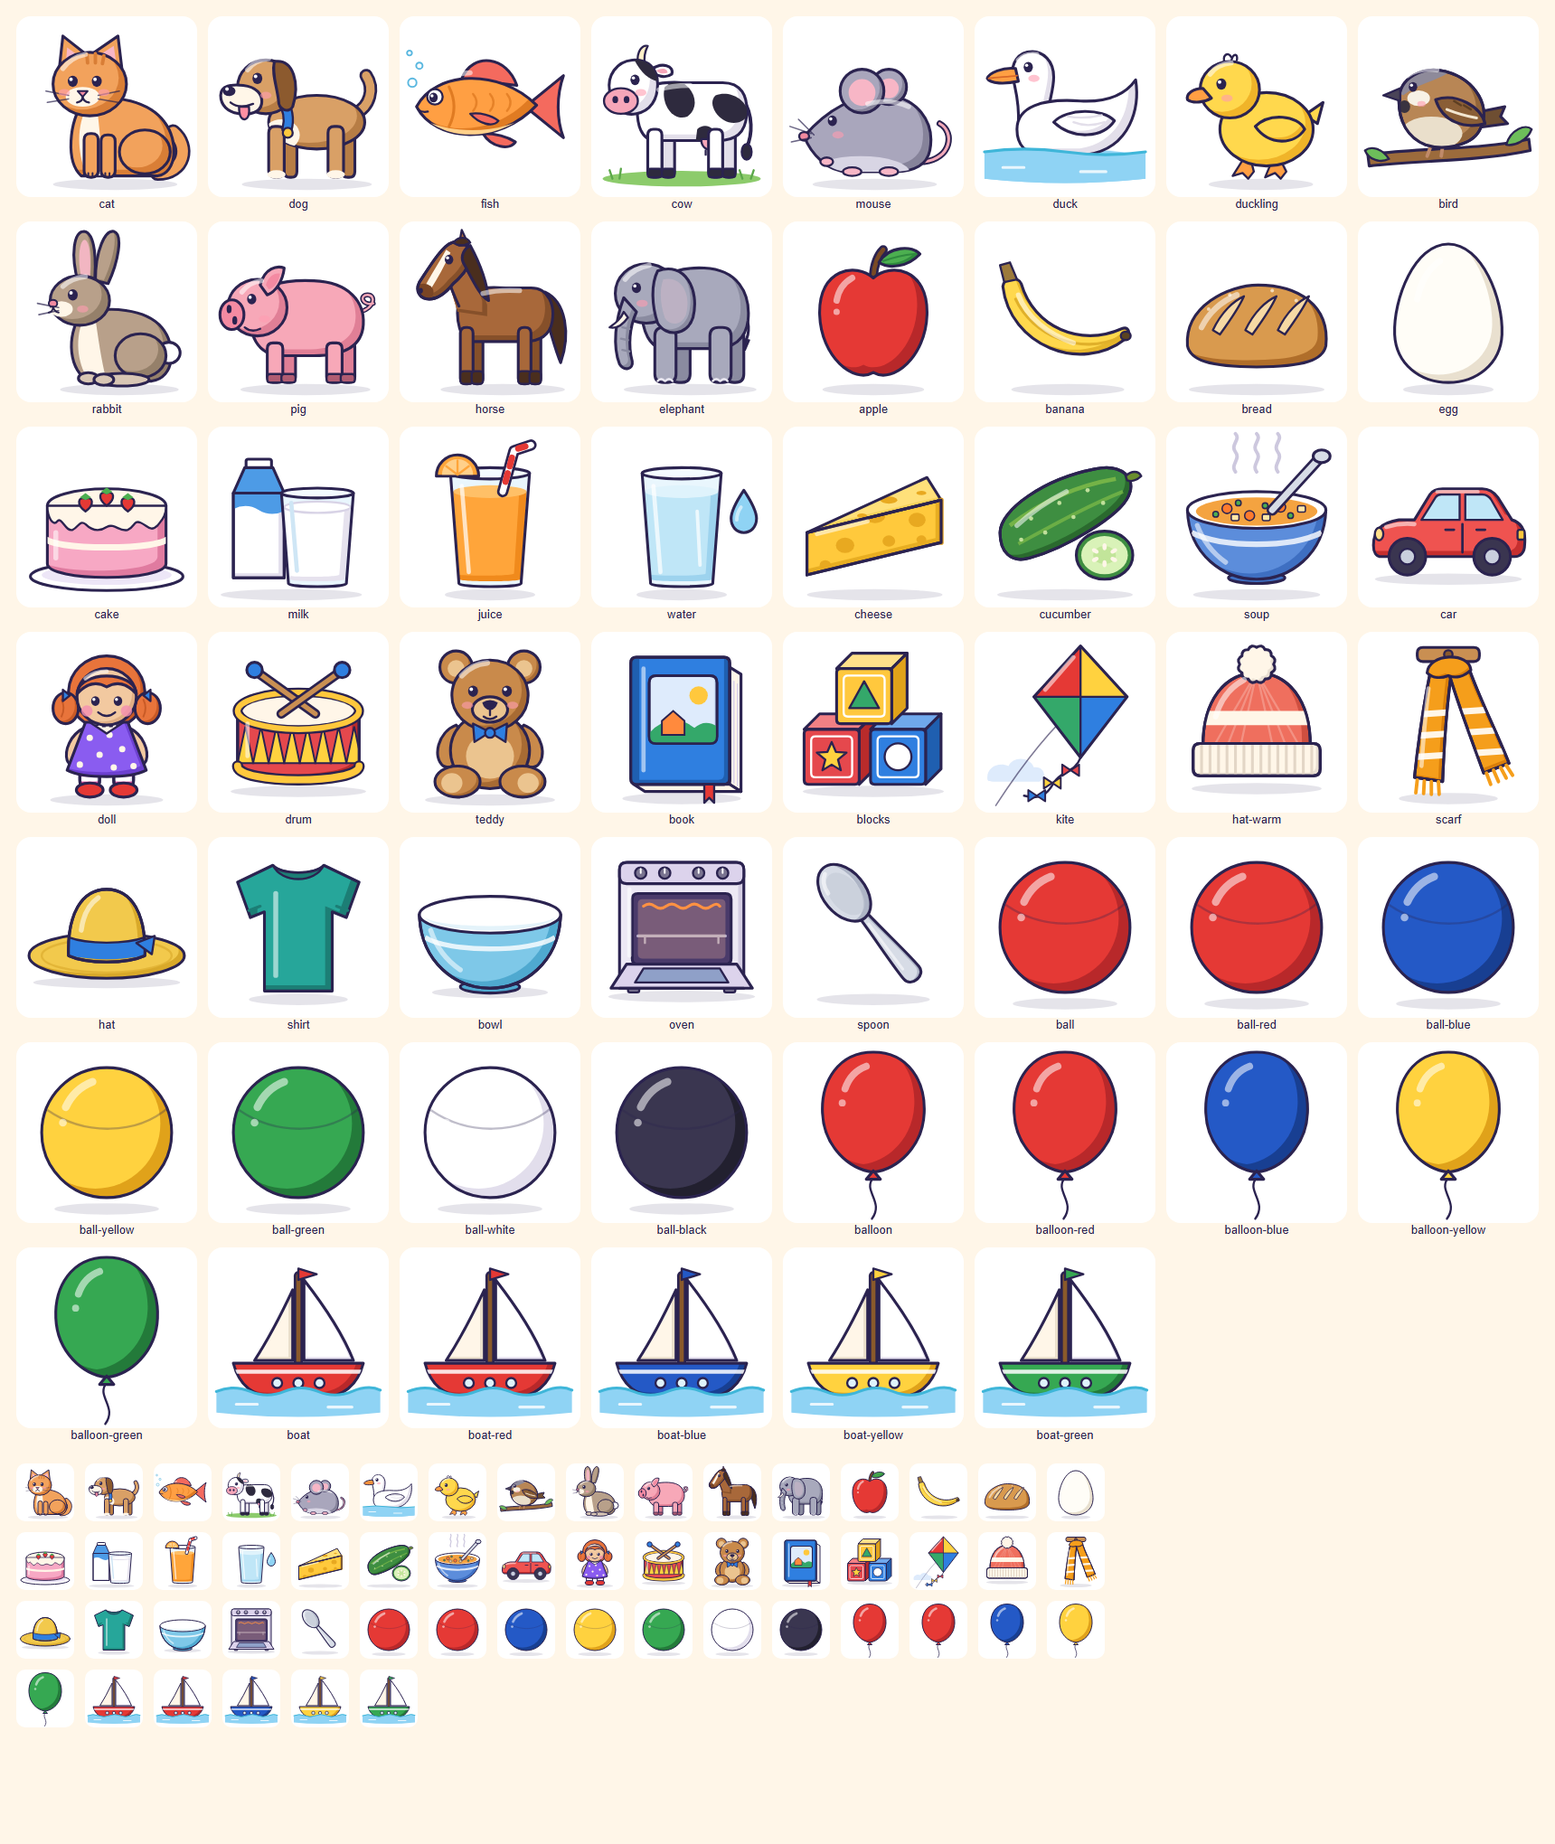
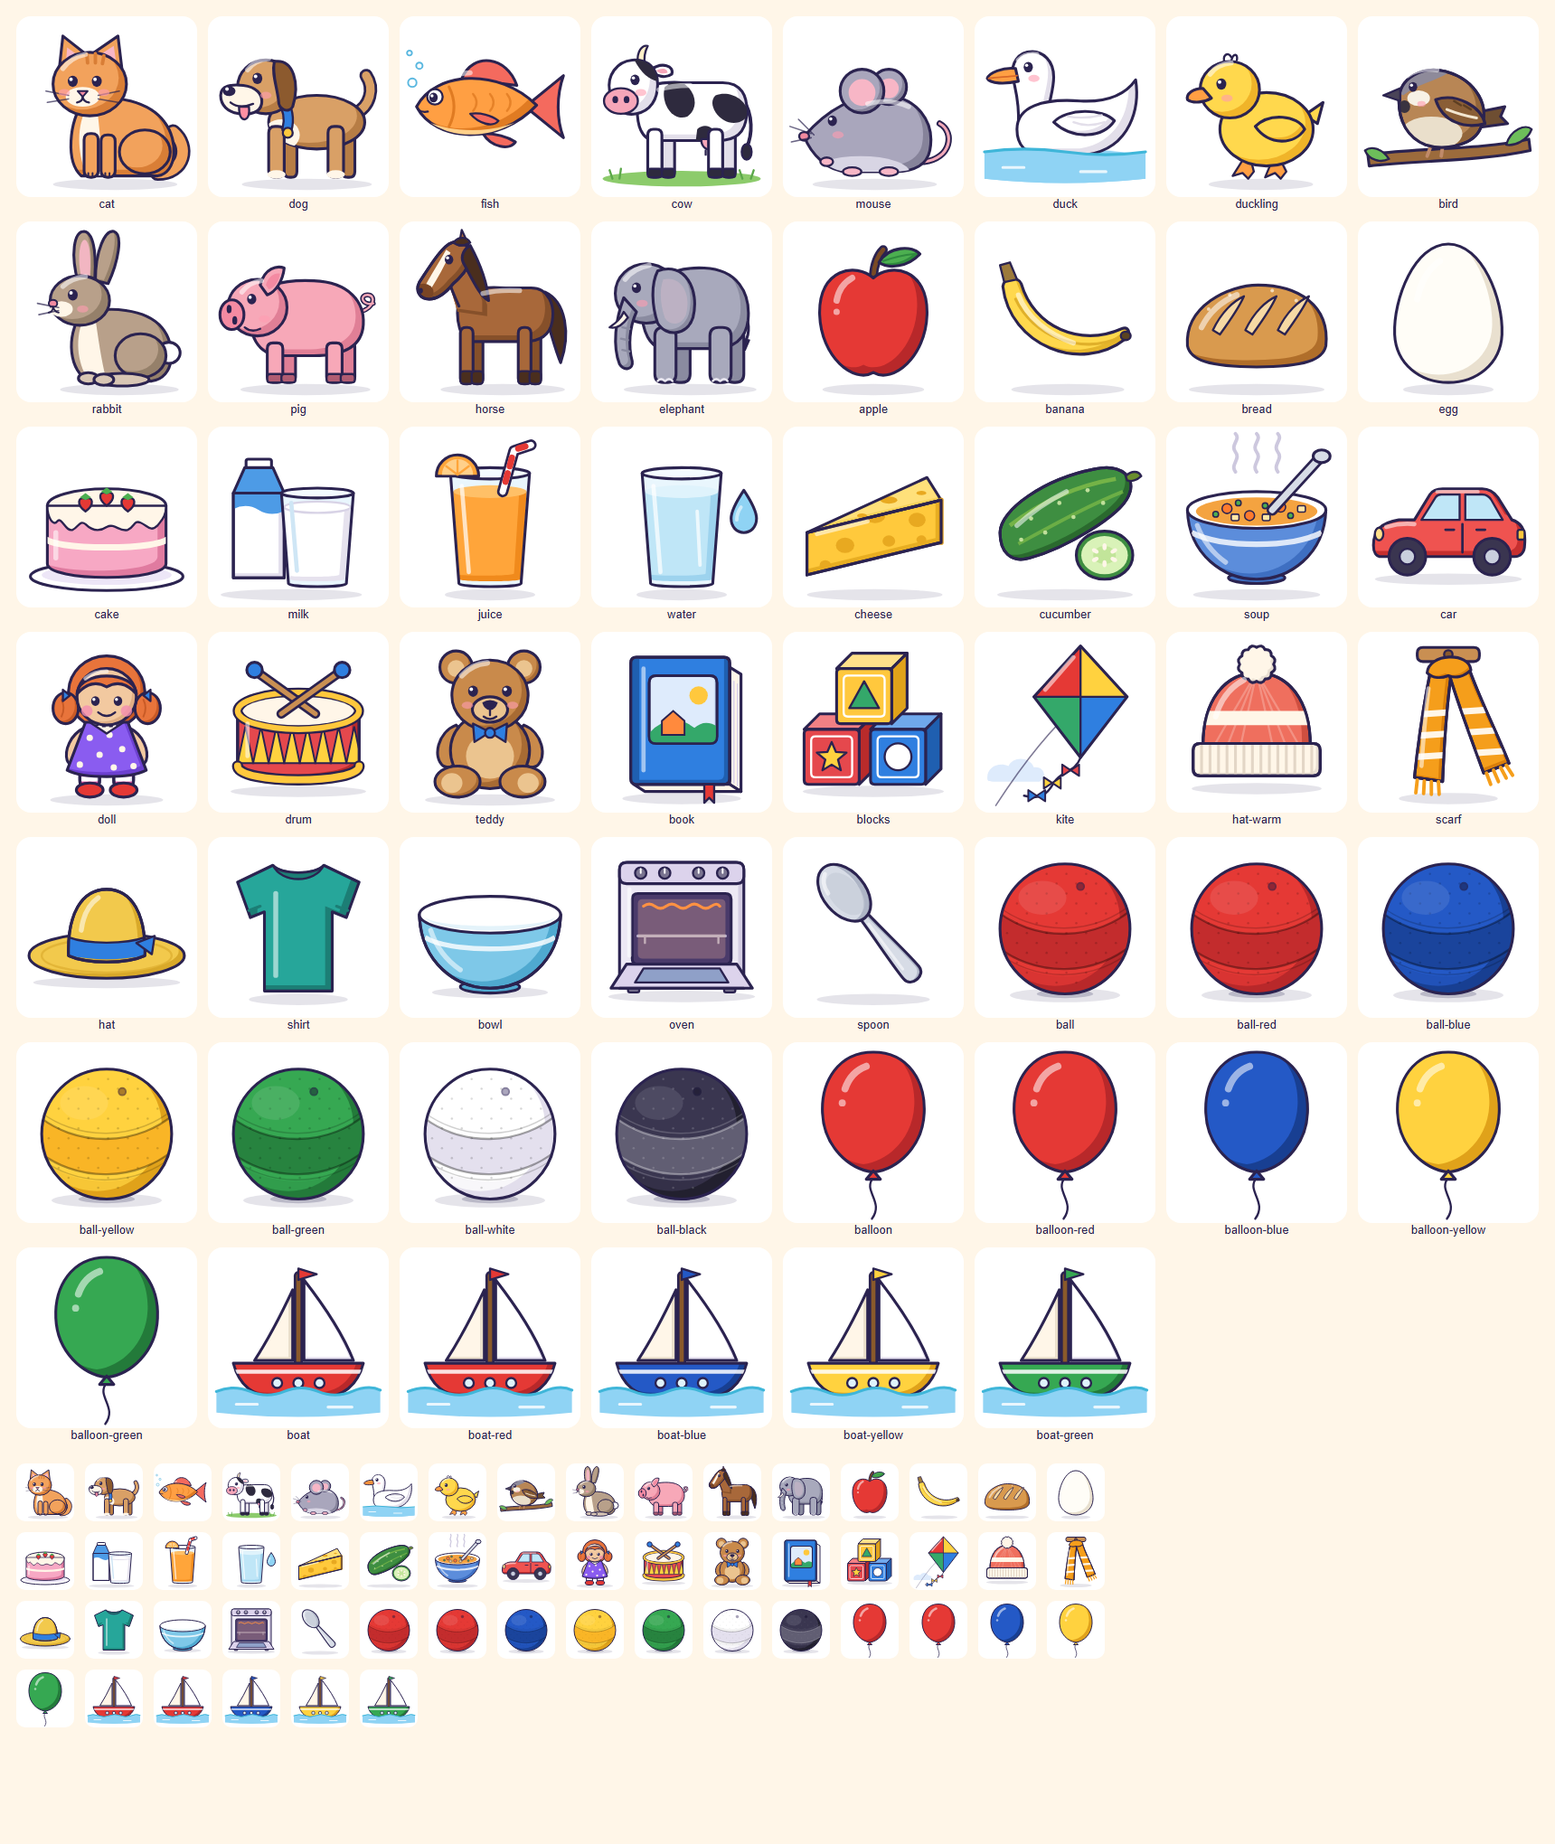
Languages pictures: the ball redrawn as a children's rubber play ball (matte, a two-tone band with seams, pebbles, a valve, on the ground with a contact shadow, round), all six colours, so it never reads as a balloon at 200 or 64 px; ball_vs_balloon.png; pictures.md records the owner's OK of the bat

diff --git a/tools/make_language_pictures.py b/tools/make_language_pictures.py
@@ -44,7 +44,12 @@ References looked at on 2026-11-03 (facts and photographs; the look is ours):
     head, upright ears).
   Elephant: Wikimedia Commons search "african elephant side" (grey, a big ear on the side of the head, the trunk hanging
     to the ground, pillar legs, a thin tail with a tuft, small tusks).
-  Everyday things (apple, ball, balloon, banana, boat, bowl, bread, cake, car, cat, cucumber, dog, doll, egg, fish,
+  Play ball (redrawn 2026-11-03 for the owner: it looked like a balloon without a string): Wikimedia Commons searches
+    "playground ball" and "rubber ball toy" (matte red rubber balls on grass, a pebbled "stipple" finish, a small
+    self-sealing valve) and retailer descriptions of rubber playground balls (laminated rubber cover, stipple finish,
+    self-sealing valve; e.g. https://www.marchants.com/rubber-playground-ball-8-1-2/). Ours: matte, a two-tone band with
+    seams, faint pebbles, a valve, sitting on the ground with a contact shadow, perfectly round.
+  Everyday things (apple, balloon, banana, boat, bowl, bread, cake, car, cat, cucumber, dog, doll, egg, fish,
     glass of juice, milk and water, hats, kite, oven, scarf, shirt, soup, spoon) are drawn from what they look like in
     any Israeli or Russian kitchen, toy box or park; colours checked against the brief of each course.
 """
@@ -56,6 +61,7 @@ import sys
 ROOT = os.path.normpath(os.path.join(os.path.dirname(os.path.abspath(__file__)), '..'))
 OUT = os.path.join(ROOT, 'content', 'languages', 'pictures')
 SHEET = os.path.join(ROOT, 'docs', 'design', 'languages', 'pictures_batch1.png')
+BALLS = os.path.join(ROOT, 'docs', 'design', 'languages', 'ball_vs_balloon.png')
 CHROME = r'C:\Program Files\Google\Chrome\Application\chrome.exe'
 
 INK = '#2B2350'
@@ -677,16 +683,44 @@ def soup():
 
 # ---- toys and things -----------------------------------------------------------------------------------------------
 
+def mix(a, b, t):
+    """a blended toward b by t (0..1), as #RRGGBB."""
+    a, b = a.lstrip('#'), b.lstrip('#')
+    return '#' + ''.join('%02X' % round(int(a[k:k + 2], 16) * (1 - t) + int(b[k:k + 2], 16) * t) for k in (0, 2, 4))
+
+
+# The play ball's band: a deeper tone of the same hue, so the ball stays one named colour, the band still shows at
+# 64 px, and the blue ball never carries a light-blue stripe (Russian sinij is not goluboj).
+BAND = {'red': mix(HUES['red'][0], HUES['red'][1], 0.75), 'blue': mix(HUES['blue'][0], HUES['blue'][1], 0.8),
+        'yellow': mix(HUES['yellow'][0], '#F08A00', 0.4), 'green': mix(HUES['green'][0], HUES['green'][1], 0.8),
+        'white': '#E4E0EE', 'black': mix(HUES['black'][0], WHITE, 0.2)}
+
+
 def ball(c='red'):
+    """A children's rubber play ball sitting on the ground: matte (no gloss), a curved two-tone band with seams round
+    its middle, a pebbled surface, a small valve; perfectly round (the balloon is the oval one, with a knot and string)."""
     f, s = HUES[c]
+    band = BAND[c]
     p = Pic()
-    p.shadow(cy=236, rx=74)
-    body = ell(128, 128, 92, 92)
-    cid = p.shaded(body, f, s, k=16)
-    p.clipped(cid, '<path d="M 44 96 C 96 132, 170 132, 216 92" fill="none" stroke="%s" stroke-width="3" opacity="0.3"/>'
-              % INK)
-    p.hl('M 70 92 Q 82 66 108 56', 11)
-    p.add('<circle cx="66" cy="114" r="5.5" fill="%s" opacity="0.55"/>' % WHITE)
+    p.shadow(cy=224, rx=78, ry=10)
+    p.add('<ellipse cx="128" cy="222" rx="40" ry="6" fill="%s" opacity="0.22"/>' % INK)
+    body = ell(128, 130, 92, 92)
+    cid = p.shaded(body, f, s, k=14, sw=0)
+    band_d = 'M 26 100 C 82 150, 174 150, 230 96 L 230 146 C 174 200, 82 200, 26 150 Z'
+    seam = '#000000' if c != 'black' else '#FFFFFF'
+    p.clipped(cid,
+              '<path d="%s" fill="%s"/>' % (band_d, band)
+              + '<path d="M 26 160 C 82 210, 174 210, 230 156 L 230 240 L 26 240 Z" fill="%s" opacity="0.25"/>' % s
+              + '<path d="M 26 100 C 82 150, 174 150, 230 96 M 26 150 C 82 200, 174 200, 230 146" fill="none" '
+                'stroke="%s" stroke-width="3" opacity="0.35"/>' % seam
+              + '<path d="M 26 92 C 82 142, 174 142, 230 88 M 26 158 C 82 208, 174 208, 230 154" fill="none" '
+                'stroke="%s" stroke-width="2" opacity="0.18"/>' % seam
+              + ''.join('<circle cx="%d" cy="%d" r="1.6" fill="%s" opacity="0.16"/>' % (x, y, seam)
+                        for x in range(46, 214, 14) for y in range(52, 218, 14)
+                        if (x - 128) ** 2 + (y - 130) ** 2 < 84 ** 2 and (x // 14 + y // 14) % 2 == 0)
+              + '<path d="%s" fill="%s" opacity="0.2"/>' % (ell(96, 86, 34, 24), mix(f, WHITE, 0.5)))
+    p.path(ell(150, 70, 5, 5), mix(s, INK, 0.3), 2.5, stroke=mix(s, INK, 0.5))
+    p.path(body, 'none')
     return p
 
 
@@ -1040,25 +1074,24 @@ def build():
     return out
 
 
-def sheet(ids):
+def sheet(ids, out=SHEET, cols=8):
     """The contact sheet: each picture on a white card at 200 px, and the whole set again at 64 px."""
     import pathlib
     big = ''.join('<div class="c"><img src="%s"><span>%s</span></div>' % ((pathlib.Path(OUT) / (i + '.svg')).as_uri(), i)
                   for i in ids)
     small = ''.join('<img class="s" src="%s">' % (pathlib.Path(OUT) / (i + '.svg')).as_uri() for i in ids)
-    cols = 8
     w = cols * 212 + 24
     rows = (len(ids) + cols - 1) // cols
-    h = rows * 236 + 24 + ((len(ids) + 15) // 16) * 76 + 60
+    h = rows * 236 + 24 + ((len(ids) + 2 * cols - 1) // (2 * cols)) * 76 + 60
     html = ('<html><body style="margin:0;padding:12px;background:#FFF6E8;width:%dpx;font:13px sans-serif;color:#2B2350">'
             '<style>.c{display:inline-block;width:200px;margin:6px;text-align:center}.c img{width:200px;height:200px;'
             'background:#fff;border-radius:16px}.s{width:64px;height:64px;margin:6px;background:#fff;border-radius:10px}'
-            '</style>%s<div style="margin-top:12px;width:%dpx">%s</div></body></html>' % (w - 24, big, 16 * 76, small))
-    tmp = SHEET + '.html'
+            '</style>%s<div style="margin-top:12px;width:%dpx">%s</div></body></html>' % (w - 24, big, cols * 2 * 76, small))
+    tmp = out + '.html'
     with open(tmp, 'w', encoding='utf-8') as fh:
         fh.write(html)
     subprocess.run([CHROME, '--headless=new', '--disable-gpu', '--hide-scrollbars', '--force-device-scale-factor=1',
-                    '--allow-file-access-from-files', '--screenshot=' + SHEET, '--window-size=%d,%d' % (w, h),
+                    '--allow-file-access-from-files', '--screenshot=' + out, '--window-size=%d,%d' % (w, h),
                     pathlib.Path(tmp).as_uri()], check=True, capture_output=True)
     os.remove(tmp)
 
@@ -1074,6 +1107,8 @@ def main():
     if '--sheet' in sys.argv:
         sheet(list(pics))
         print('sheet', os.path.relpath(SHEET, ROOT))
+        sheet(['ball-%s' % c for c in COLOURED['ball'][1]] + ['balloon-%s' % c for c in COLOURED['balloon'][1]], BALLS, cols=6)
+        print('sheet', os.path.relpath(BALLS, ROOT))
 
 
 if __name__ == '__main__':

diff --git a/docs/languages/pictures.md b/docs/languages/pictures.md
@@ -1,6 +1,6 @@
 # The Languages courses: one shared picture set
 
-Owner: design-director. Date: 2026-11-03. Status: **batch 1 drawn (40 objects: 51 pictures in 54 files); the rest is a plan.** For the
+Owner: design-director. Date: 2026-11-03. Status: **batch 1 drawn (40 objects: 51 pictures in 54 files); its style approved by the owner (2026-11-03, "looks great"); the rest is a plan.** For the
 teachers of the three courses, the curriculum-expert, the app-developer and the owner.
 
 Built from the three Band A batches: `english/band-a-content.md` §6 (111 briefs), `hebrew/band-a-content.md` §2 and §5
@@ -40,7 +40,7 @@ sources written in the generator), original characters only.
 | **Pip** | English: the puppet and host | The English host already drawn on the door (`app/assets/art/languages/host_eng.svg`): a budgerigar, green body, yellow face, black throat spots, violet-blue cheek patches, scalloped wings, a long blue tail. "Pip" fits a small bird (a chick's peep). | Pip **is** the budgerigar host (English §1 calls Pip "the English puppet and host"; the door shows the host). Pip's pictures are expression poses of that drawing: happy, sad (a soft frown, no tear: art brief §2), cold (a knitted hat and scarf, a few snowflakes), holds (a curtain opens on the object), arrives and leaves through the same arched door as the door art. Pip catches and hugs the dog in the story. |
 | **Mika** | English (Pip's friend) and **Russian ("the friend", הֶחָבֵר)** | A child of about 5, gender-neutral, warm brown skin, a round head of short dark curls (a clear "hair" area), dot eyes with a spark, pink cheeks; base clothes a plain yellow T-shirt and teal shorts, **bare feet** (so feet, toes, socks and shoes all read); five clearly separate fingers on each hand. A grin variant shows the teeth. | **One friend for both courses.** English Mika and the Russian friend do the same things (clap, jump, sit, stand, arrive, leave, show body parts, get dressed), so one character gives one set of pictures (§4.2) and one hotspot map. The Russian lines never name or gender the friend, which fits. The Russian friend cannot be the child's own companion: the nine companions include an octopus, a turtle and a robot, which have no hair, fingers or legs to tap. **For both teachers to confirm.** |
 | **The family** | Russian (A-02, A-12, A-13), Hebrew (אַבָּא, סָבָא, סַבְתָּא), **English (family words)** | One original family: mother (olive skin, black hair in a bun, a green top), father (olive skin, short brown hair, a short beard, a blue shirt), grandmother (grey hair, round glasses, a lilac cardigan: the Russian brief), grandfather (grey hair, a flat cap: the Russian brief), older brother about 9 (taller, a red T-shirt), older sister about 9 (a ponytail, an orange dress), the baby (a toddler with no clear gender, a white romper). Ages clear by height, grey hair, glasses and the cap. | **One family for the three courses** (7 portraits + the whole family). For English I propose it is **Mika's family** (Mika is a child; Pip is a bird), and Pip's own family is one picture of budgerigars for the personal turn ("This is my family"). That needs the english-language-teacher's OK (the briefs say "Pip's"). The cousin, the pet card and "someone else" are English extras. |
-| **The Russian puppet** | Russian (`{puppet}` in `ch-menja-zovut`, LS10 puppet talk) | The Russian host already drawn on the door (`host_rus.svg`): a giraffe, long neck with a short mane, two tufted ossicones, orange-brown patches with cream lines. | The puppet **is** the giraffe host, as Pip is the English host. **Name proposal: Са́ша (Sasha).** It is the most common Russian name used for both boys and girls, so it keeps the Russian voice rule (the voice never reveals its own gender, syllabus §6); two open syllables with sounds Hebrew has (סָשָׁה), easy for a 3-year-old; no meaning or clash in Hebrew, not the name of any franchise character, and nothing in the course uses it. Alternatives if the teachers prefer: **Же́ня** (also both genders; ж is a new sound for a Hebrew child) or **Ля́ля** (baby-talk, but reads as a girl). Names I set aside: Ми́ша (the 1980 bear mascot and the teddy word ми́шка), Ку́зя and Фи́ля (puppet and cartoon characters), Шу́ра (שׁוּרָה, a row), Ти́ша (close to תִּשְׁעָה), Ту́ки (תּוּכִּי, a parrot), Ди́ня (дыня, the ы/и pair taught in A-20), Ми́ла (מִלָּה, a word). The russian-language-teacher and the owner confirm; the name goes into `pronunciation.csv` (`ch-menja-zovut`) and the voice plan. |
+| **The Russian puppet** | Russian (`{puppet}` in `ch-menja-zovut`, LS10 puppet talk) | The Russian host already drawn on the door (`host_rus.svg`): a giraffe, long neck with a short mane, two tufted ossicones, orange-brown patches with cream lines. | The puppet **is** the giraffe host, as Pip is the English host. **Name: Са́ша (Sasha), approved by the owner on 2026-11-03.** It is the most common Russian name used for both boys and girls, so it keeps the Russian voice rule (the voice never reveals its own gender, syllabus §6); two open syllables with sounds Hebrew has (סָשָׁה), easy for a 3-year-old; no meaning or clash in Hebrew, not the name of any franchise character, and nothing in the course uses it. Alternatives that were offered: Же́ня, Ля́ля. Names set aside: Ми́ша (the 1980 bear mascot and the teddy word ми́шка), Ку́зя and Фи́ля (puppet and cartoon characters), Шу́ра (שׁוּרָה, a row), Ти́ша (close to תִּשְׁעָה), Ту́ки (תּוּכִּי, a parrot), Ди́ня (дыня, the ы/и pair taught in A-20), Ми́ла (מִלָּה, a word). Next: the russian-language-teacher puts it into `pronunciation.csv` (`ch-menja-zovut`: Меня́ зову́т Са́ша.) and the voice plan. |
 | **The hyrax** | Hebrew host | `host_heb.svg` (exists). | Hebrew A-09 says "the puppet parrot says the syllables": I propose the Hebrew host (the rock hyrax) says them, so there is no second parrot next to English Pip. **For the hebrew-language-teacher.** |
 | Nitzi, Kubi | Hebrew stories 2 and 3 | The existing cast (`design/assets/nitzi-*.svg`, `kubi.svg`). | Reused as they are. |
 | The neighbour | Russian A-01.06, .07 | A friendly older grown-up (not family): grey bun, a shopping bag with a loaf, a coat. | New, 2 pictures. |
@@ -53,7 +53,7 @@ Hebrew counts are close, not exact). A colour set counts once. Files: `content/l
 
 | # | Id (files) | E | H | R | Courses (their ids) | Reference (looked at 2026-11-03) |
 |---|---|---|---|---|---|---|
-| 1 | `ball`, `ball-red`, `ball-blue`, `ball-yellow`, `ball-green`, `ball-white`, `ball-black` | 12 | 19 | 15 | E pic.ball, ball-red/-blue/-yellow; H כַּדּוּר (red; yellow); R мяч, the A-06 object colours | everyday play ball; one drawing in six named hues |
+| 1 | `ball`, `ball-red`, `ball-blue`, `ball-yellow`, `ball-green`, `ball-white`, `ball-black` | 12 | 19 | 15 | E pic.ball, ball-red/-blue/-yellow; H כַּדּוּר (red; yellow); R мяч, the A-06 object colours | a children's rubber playground ball (Commons "playground ball", "rubber ball toy"; retailer descriptions: matte rubber, stipple finish, valve); one drawing in six named hues. **Redrawn 2026-11-03** (the owner: it looked like a balloon without a string): matte, a two-tone band in a deeper tone of the same hue with seams, faint pebbles, a valve, sitting on the ground with a contact shadow, perfectly round; the balloon stays oval and glossy, with a knot and a string. Only the ball comes in white and black, so the Russian A-06 object items 11 and 12 use balls |
 | 2 | `cat` | 11 | 18 | 16 | E pic.cat; H חָתוּל, חֲתוּלָה; R ко́шка | ginger house cat sitting |
 | 3 | `dog` | 8 | 7 | 13 | E pic.dog; H כֶּלֶב; R соба́ка | friendly tan dog standing, a collar |
 | 4 | `apple` | 7 | 8 | 13 | E, R pic.apple; H תַּפּוּחַ | red apple, stem and leaf |
@@ -94,7 +94,7 @@ Hebrew counts are close, not exact). A colour set counts once. Files: `content/l
 | 39 | `horse` | 0 | 4 | 3 | H סוּס; R ло́шадь | Commons "horse standing side" (a bay) |
 | 40 | `shirt` | 0 | 3 | 4 | H חֻלְצָה (plain; the A-03 clothes bin); R футбо́лка | a plain teal T-shirt |
 
-Contact sheet (every file at 200 px, then at 64 px): `docs/design/languages/pictures_batch1.png`.
+Contact sheet (every file at 200 px, then at 64 px): `docs/design/languages/pictures_batch1.png`. The ball and the balloon side by side, at 200 and 64 px: `docs/design/languages/ball_vs_balloon.png`.
 
 ## 4. The whole set
 
@@ -222,7 +222,7 @@ Of the 333, 16 are composites the generator makes from drawn pictures, so **317 
 - **hebrew-language-teacher:** animals facing left or right (§1); the hyrax instead of a parrot in A-09 (§2).
 - **english-language-teacher:** Pip is the budgerigar host; the family is Mika's, Pip's own family one budgerigar picture
   (§2); no tear on the sad faces (§4.2).
-- **russian-language-teacher and the owner:** the puppet's name (Са́ша, §2); Mika as the friend (§2); one rabbit for
+- **russian-language-teacher:** the puppet's name Са́ша is approved (§2): into `pronunciation.csv`; Mika as the friend (§2); one rabbit for
   за́яц (§4.1).
 - **curriculum-expert:** that `rabbit` (H, R), `present` (H gift, E box) and `tea` (R чай, E hot) teach the right thing
   with one picture each.
